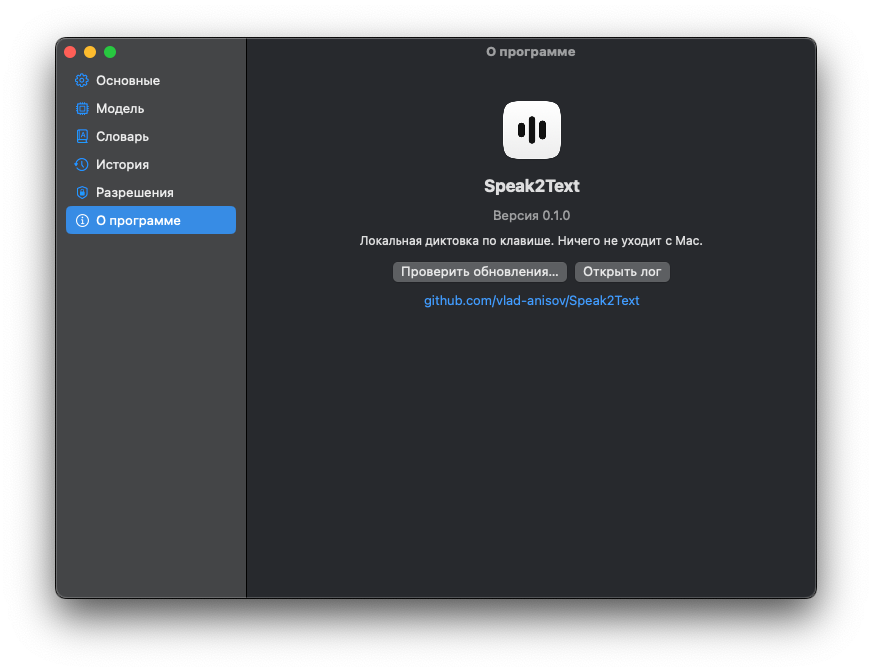
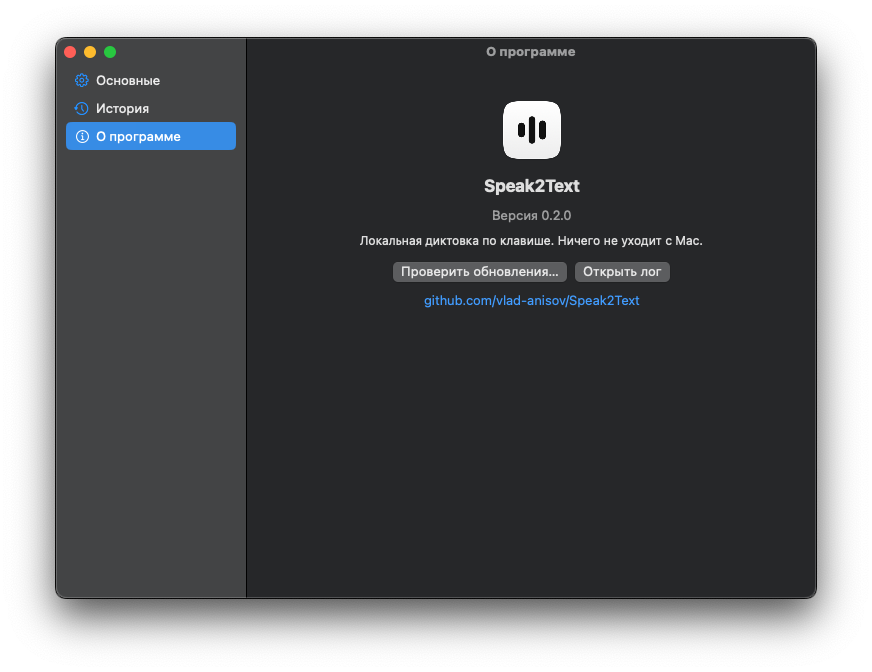
Docs, screenshots and version 0.2.0

Changed region(s): [[0.0619, 0.1562, 0.2787, 0.25], [0.0619, 0.2812, 0.2787, 0.375], [0.5573, 0.3125, 0.6502, 0.3438]]

diff --git a/docs/SPEC.md b/docs/SPEC.md
@@ -6,7 +6,7 @@
 ## Основа
 - Код прототипа Dictate (`Sources/dictate`). Live-режим: перераспознавание раз в 1 с с LocalAgreement-2. Ожидание после отпускания 1,25–1,4 с. Это не ломать.
 - Swift Package + `build.sh` для сборки `.app` (Xcode нет, только Command Line Tools). macOS 14+, Apple Silicon.
-- Bundle ID `io.github.vlad-anisov.speak2text`, версия `0.1.0`.
+- Bundle ID `io.github.vlad-anisov.speak2text`, версия `0.2.0`.
 - Подпись: `Apple Development: Uladzislau Anisau (P3W3R69UM6)`. Подпись постоянная, поэтому разрешения TCC переживают пересборку.
 - Установка: `~/Applications/Speak2Text.app`, без sudo.
 - Единственная модель — `openai_whisper-large-v3-v20240930_turbo_632MB`. Уже скачана в `~/Documents/huggingface/models/argmaxinc/whisperkit-coreml/`: сначала искать там, потом в `~/Library/Application Support/Speak2Text/Models`.
@@ -16,21 +16,20 @@
 1. **Меню-бар.**
    - Монохромная template-иконка.
    - Левый клик по иконке открывает окно настроек (без выпадающего меню); если приложение уже открыто, окно выходит на передний план. Во время записи иконка меняется (`MenuBarIconRec`).
-   - Правый клик: маленькое меню «Настройки…» и «Выход».
+   - Правый клик: меню из двух пунктов, «Настройки» и «Закрыть» (на английском Settings и Quit).
    - Окна в Dock нет (LSUIElement).
-2. **Первый запуск.** Настройки открываются на вкладке «Разрешения» (и при каждом запуске, если разрешений не хватает):
+2. **Разрешения.** Отдельного раздела нет. Пока не хватает хотя бы одного, вверху вкладки «Основные» показан блок «Нужны разрешения»:
    - Микрофон, Мониторинг ввода, Универсальный доступ — у каждого статус ✓/✗ и кнопка «Открыть настройки»;
-   - статус обновляется каждые 1–2 с.
-
-   Если разрешение выдано, а процесс его не видит, предложить кнопку «Перезапустить». Подсказка: «Если приложение уже в списке, удалите его кнопкой − и добавьте снова».
+   - статус обновляется каждые 1,5 с; если разрешение выдано, а процесс его не видит, есть кнопка «Перезапустить»;
+   - когда выдано всё, блок исчезает совсем. Первый запуск открывает настройки на «Основные».
 3. **Клавиша — любая.**
    - Записать в настройках можно: одиночный модификатор с различением левого и правого (Option, Command, Control, Shift, Fn), любую обычную клавишу (F13, CapsLock и т.д.) или комбинацию (⌃⌥Space).
    - По умолчанию: правый Option.
 4. **Два режима.**
-   - Нажатие (по умолчанию, «Нажать — старт, ещё раз — стоп»): первое нажатие — старт, второе — стоп и вставка. Esc — отмена.
+   - Нажатие (по умолчанию, «Нажать»): первое нажатие — старт, второе — стоп и вставка. Esc — отмена.
    - Удержание («Удерживать»): держишь — запись, отпустил — вставка.
 
-   В настройках под выбором режима одна строка-пояснение; в режиме нажатия она говорит, что Esc отменяет запись.
+   Esc отменяет запись в обоих режимах; под блоком клавиши, режима и языка одна мелкая подпись «Esc отменяет запись». Подписи режимов: «Удерживать» / «Нажать».
 
    Для модификатора в режиме удержания оставить отмену при нажатии другой клавиши или клика и при удержании меньше 0,4 с. Это защищает обычные сочетания вроде Option+буква.
 5. **Плашка (overlay).**
@@ -49,25 +48,25 @@
    - На время записи громкость основного устройства вывода опускается до 0, после — восстанавливается. Заглушение включается после стартового звука, чтобы не заглушить его.
    - Если у устройства нет регулировки громкости, пропустить.
    - Исходную громкость сохранить на диск и восстановить при следующем запуске, если приложение упало во время записи.
-7. **Словарь.**
-   - **Замены**: таблица «что распознано → на что заменить» (без учёта регистра, по границам слов), например «пайплайн → pipeline». Применяется к финальному тексту.
-   - **Слова-паразиты** (выключено по умолчанию): редактируемый список («э», «ээ», «ну», «типа», «как бы», «короче»), удаляются вместе с запятыми рядом.
-   - В начале вкладки одна строка-пояснение. Подсказки модели (prompt) убраны: они пропускали и дублировали слова.
-8. **Модель и ускоритель.**
-   - Одна модель: turbo 632MB. Если её нет, скачивание с прогрессом через WhisperKit/HF.
-   - Язык: ru (по умолчанию), en, авто.
-   - Ускоритель: Neural Engine (по умолчанию), GPU, CPU. Это ModelComputeOptions для энкодера и декодера.
-   - Смена ускорителя требует перекомпиляции CoreML. Первый раз до ~3 мин, показывать «Подготовка модели…» с таймером.
-   - Теста скорости нет.
+7. **Исправления текста** (без интерфейса).
+   - **Встроенные замены**, всегда включены (`BuiltinDictionary.swift`): как Whisper пишет английские IT- и бизнес-термины кириллицей → правильное латинское написание (пайплайн → pipeline, гитхаб → GitHub, джира → Jira, …). Без учёта регистра, по границам слов, русские падежные окончания поглощаются («на гитхабе» → «на GitHub»); в начале предложения заглавная буква сохраняется. Список консервативный: обычные русские слова (баг, фича, код) не трогаем, неоднозначные формы (докеры, гита) помечены как «только точная форма».
+   - **Слова-паразиты** — один переключатель «Убирать слова-паразиты» на «Основных» (по умолчанию выключен), встроенный список: э, ээ, эм, um, uh убираются везде как отдельные слова; ну, типа, как бы, короче, вот — только когда за ними стоит запятая («Ну, давай», «Это, как бы, важно»), иначе это обычные слова («определение типа данных»).
+   - Самопроверка: `Speak2Text --test-dictionary` (36 предложений: что меняется и что не должно).
+   - Старые ключи UserDefaults (`replacements`, `fillers`, `language`, …) при запуске удаляются.
+8. **Ускоритель и язык.**
+   - Модель одна и не выбирается: turbo 632MB; если её нет, скачивается сама (статус «Загрузка N%» с прогрессом).
+   - Язык интерфейса — как в macOS (en/ru, иначе en), без переключателя. Системные языки читаются из глобального домена `AppleLanguages`, потому что `Locale.preferredLanguages` сужается до локализаций приложения.
+   - Язык распознавания (один список): «Как в системе» (по умолчанию; первый язык macOS → код Whisper на момент записи, неподдерживаемый → автоопределение), «Автоопределение» (detectLanguage) и все 100 языков Whisper по алфавиту локализованных названий.
+   - Ускоритель: Neural Engine (по умолчанию), GPU, CPU. Строка состояния под ним: «Готово», «Подготовка… 0:42» или «Загрузка 37%» с полосой. Смена ускорителя перекомпилирует CoreML, первый раз до ~3 мин.
 9. **Автозапуск при входе** (включено по умолчанию): SMAppService.mainApp. Старый LaunchAgent прототипа не трогать, его уберёт главная сессия.
 10. **Обновления.**
     - Sparkle 2 через SPM.
     - Лента обновлений: `https://github.com/vlad-anisov/Speak2Text/releases/latest/download/appcast.xml`.
     - Ключ EdDSA: `generate_keys` из Sparkle, приватный ключ в Keychain, публичный ключ в Info.plist (`SUPublicEDKey`).
-    - Скрипт `scripts/release.sh <версия>`: сборка, zip, подпись Sparkle, appcast.xml в `dist/`. Ничего не публикует.
+    - Скрипт `scripts/release.sh <версия>`: сборка, zip (для Sparkle), подпись Sparkle, appcast.xml и `Speak2Text-<версия>.dmg` (для людей: окно 600×400, приложение слева, стрелка, Applications справа; собирается dmgbuild из venv в `.build/`, подписывается той же идентичностью) в `dist/`. Ничего не публикует.
     - Если Sparkle не собирается без Xcode, запасной вариант: проверка GitHub Releases API, а в меню «Доступна версия X» → открыть страницу релиза.
-11. **Звуки старта и стопа** (включено по умолчанию): мягкие синтезированные «блипы» `Resources/start.wav` (восходящий) и `stop.wav` (нисходящий), ~120 мс, тихие, без щелчков. Генерирует `scripts/make_sounds.py`.
-    - Стартовый звук играет сразу при нажатии; пока он звучит (~0,16 с), сэмплы с микрофона отбрасываются, поэтому звук не попадает ни в распознавание, ни в историю. Заглушение включается после него. Цена: первые ~0,16 с речи после нажатия теряются.
+11. **Звуки старта и стопа** (включено по умолчанию): мягкие синтезированные «блипы» `Resources/start.wav` (восходящий) и `stop.wav` (нисходящий), ~200 мс, пик 0,13: две мягкие синусоидальные ноты (494 и 659 Гц, чистая кварта) с едва слышной 2-й гармоникой, атака 20 мс, плавный спад. Генерирует `scripts/make_sounds.py`.
+    - Стартовый звук играет сразу при нажатии; пока он звучит (~0,24 с), сэмплы с микрофона отбрасываются, поэтому звук не попадает ни в распознавание, ни в историю. Заглушение включается после него. Цена: первые ~0,24 с речи после нажатия теряются.
     - Стоп-звук играет после остановки записи и восстановления громкости.
 12. **История.**
     - Каждая диктовка сохраняется в `~/Library/Application Support/Speak2Text/History/`: `<id>.json` (дата, длительность, итоговый текст, исходный текст до словаря) и `<id>.wav` (16 кГц, моно, 16 бит). Пустые результаты тоже сохраняются с аудио.
@@ -77,12 +76,15 @@
 
 ## Настройки — окно
 Окно настроек: NSWindow с `.fullSizeContentView`, контент — NSSplitViewController: слева боковая панель (`sidebarWithViewController`, ширина 190–260, не сворачивается, SF Symbols), справа SwiftUI Form `.grouped`; подписи секций — footer, слева, мелким вторичным шрифтом. Последний раздел запоминается. Разделы:
-- **Основные** (gear): клавиша (кейкап-чип: клик → «Нажмите клавишу…», Esc отменяет, ⓧ сбрасывает на правый Option), режим, язык, заглушение, звуки, плашка, автозапуск, «Выйти из Speak2Text»;
-- **Модель** (cpu): модель и скачивание, ускоритель;
-- **Словарь** (character.book.closed): замены, слова-паразиты;
+- **Основные** (gear), сверху вниз:
+  1. «Нужны разрешения» (только пока чего-то не хватает);
+  2. клавиша (кейкап-чип: клик → «Нажмите клавишу…», Esc отменяет, ⓧ сбрасывает на правый Option), режим, язык, подпись «Esc отменяет запись»;
+  3. заглушение, звуки, плашка, слова-паразиты, автозапуск;
+  4. ускоритель и строка состояния.
 - **История** (clock.arrow.circlepath);
-- **Разрешения** (lock.shield): статус ✓/✗ у каждого разрешения;
 - **О программе** (info.circle): версия, «Проверить обновления», ссылка на GitHub, «Открыть лог».
+
+Кнопки выхода в окне нет: «Закрыть» — в меню по правому клику на иконке.
 
 Хранение — UserDefaults. Изменения применяются сразу, без перезапуска.
 

diff --git a/README.md b/README.md
@@ -28,14 +28,14 @@ Press a hotkey, speak, press it again (or hold it and release): the text is type
 - Any hotkey (single left/right modifier, any key, or a combo), toggle or hold-to-talk mode
 - Animated pill overlay showing the state
 - Mutes other audio while recording and restores it afterwards
-- Dictionary replacements and filler-word removal
+- Built-in fixes for English tech terms that Whisper writes in Cyrillic (GitHub, pipeline, Jira, ...) and optional filler-word removal
 - History with saved audio, search, copy, paste again and re-transcribe
 - Auto-updates via [Sparkle](https://sparkle-project.org)
-- English and Russian UI
+- English and Russian UI (follows macOS); all Whisper languages for recognition
 
 ## Install
 
-1. Download `Speak2Text-<version>.zip` from [Releases](https://github.com/vlad-anisov/Speak2Text/releases/latest), unzip it and move `Speak2Text.app` to `/Applications` or `~/Applications`.
+1. Download `Speak2Text-<version>.dmg` from [Releases](https://github.com/vlad-anisov/Speak2Text/releases/latest), open it and drag `Speak2Text.app` onto the Applications folder.
 2. **First launch.** The app is signed with a development certificate and is **not notarized**, so macOS will block it the first time. Do one of:
    - Right-click `Speak2Text.app` and choose **Open**, then confirm; or
    - open **System Settings → Privacy & Security** and click **Open Anyway**; or
@@ -43,19 +43,20 @@ Press a hotkey, speak, press it again (or hold it and release): the text is type
      ```sh
      xattr -dr com.apple.quarantine /Applications/Speak2Text.app
      ```
-3. Grant the permissions on the Permissions tab that opens on first run:
+3. Grant the permissions in the "Permissions needed" block at the top of General (Settings open there on first run; the block disappears once everything is granted):
    - **Microphone** to record speech
    - **Input Monitoring** to see the global hotkey
    - **Accessibility** to paste the text (Cmd+V) into the active app
-4. Wait for the model. The first launch downloads it and compiles Core ML for the Neural Engine, which takes a few minutes (up to ~3 minutes for the compile). Later launches take a few seconds. Do not quit the app meanwhile.
+4. Wait for the model (status under Accelerator). The first launch downloads it and compiles Core ML for the Neural Engine, which takes a few minutes (up to ~3 minutes for the compile). Later launches take a few seconds. Do not quit the app meanwhile.
 
 Requires macOS 14+ on Apple Silicon.
 
 ## Usage
 
 - The default hotkey is **Right Option**. Change it in Settings → General: click the key chip and press any key, modifier or combo (Esc cancels, ⓧ resets).
-- Default mode is **toggle**: press to start, press again to stop (Esc cancels). Switch to **hold** to talk only while the key is down.
-- Pick the language (ru / en / auto), optional start/stop sounds, overlay and launch at login in Settings → General.
+- Default mode is **Press**: press to start, press again to stop (Esc cancels). Switch to **Hold** to talk only while the key is down.
+- Language: "Same as system" (default, falls back to auto-detect for unsupported languages), "Auto-detect" or any Whisper language. Start/stop sounds, overlay, filler-word removal and launch at login are in Settings → General.
+- Right-click the menu bar icon for Settings and Quit.
 - Text is delivered through the clipboard (Cmd+V) and your previous clipboard contents are restored right after pasting.
 - In tests the final text appeared about 0.6-1.05 s after stop.
 - History is stored in `~/Library/Application Support/Speak2Text/History/` (audio as 16 kHz mono wav); keep it forever, 30 days (default), 7, 1, or turn it off.
@@ -89,7 +90,7 @@ Regenerate the start/stop sounds with `python3 scripts/make_sounds.py`. See [doc
 
 ## Releasing
 
-`scripts/release.sh <version>` builds, zips into `dist/` and generates a signed Sparkle `appcast.xml`. It publishes nothing: create the release `v<version>` on GitHub and attach `dist/Speak2Text-<version>.zip` and `dist/appcast.xml`. Signing keys come from Sparkle `generate_keys` (private key in your Keychain, public key in `Info.plist` as `SUPublicEDKey`).
+`scripts/release.sh <version>` builds, zips into `dist/`, generates a signed Sparkle `appcast.xml` and a drag-to-Applications `Speak2Text-<version>.dmg` (via [dmgbuild](https://github.com/dmgbuild/dmgbuild), installed into a venv under `.build/`). It publishes nothing: create the release `v<version>` on GitHub and attach the `.dmg` (for people), the `.zip` (for Sparkle updates) and `dist/appcast.xml`. Signing keys come from Sparkle `generate_keys` (private key in your Keychain, public key in `Info.plist` as `SUPublicEDKey`).
 
 ## Credits
 
